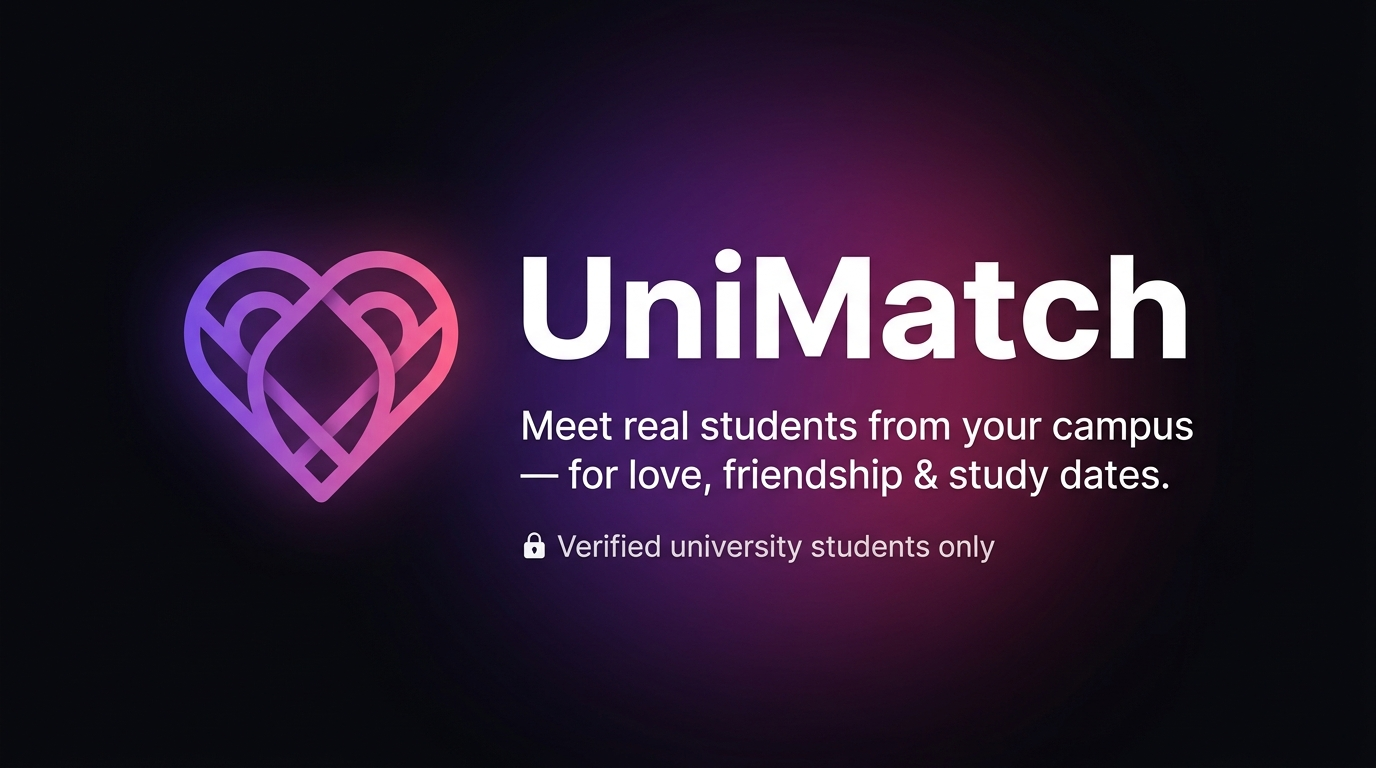
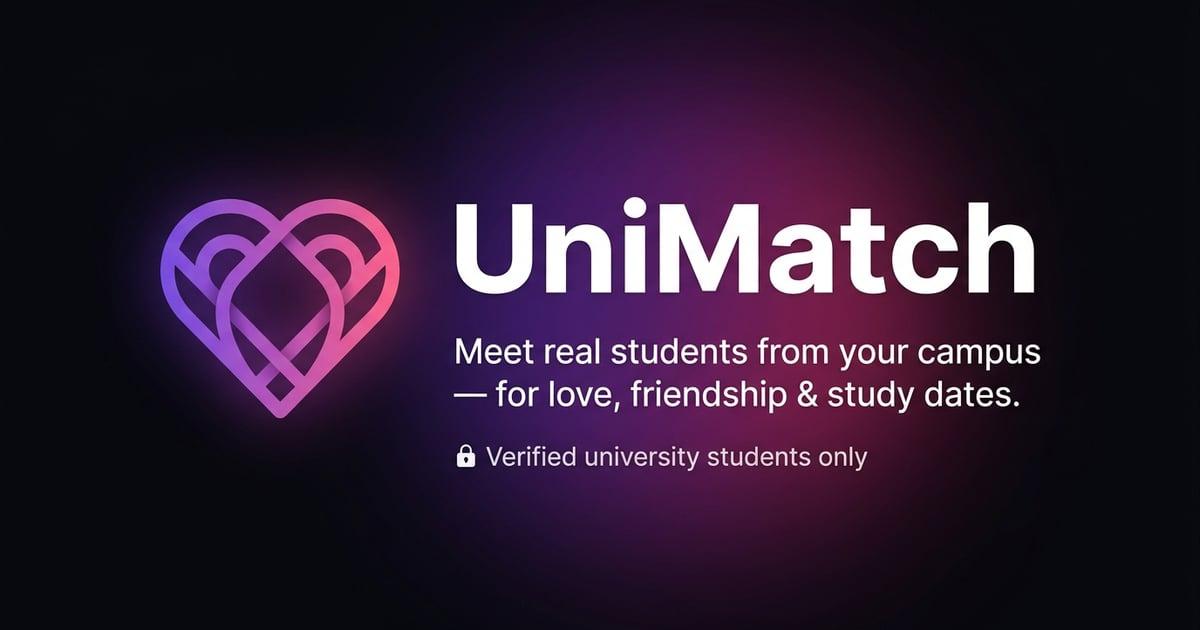
fix: compress og-image under 50KB and add explicit OpenGraph image tags for WhatsApp preview card compatibility

diff --git a/src/app/layout.tsx b/src/app/layout.tsx
@@ -40,9 +40,11 @@ export const metadata: Metadata = {
     siteName: "UniMatch",
     images: [
       {
-        url: "/og-image.jpg",
+        url: "https://uni-match-one.vercel.app/og-image.jpg",
+        secureUrl: "https://uni-match-one.vercel.app/og-image.jpg",
         width: 1200,
         height: 630,
+        type: "image/jpeg",
         alt: "UniMatch — Campus Dating for University Students"
       }
     ],
@@ -53,7 +55,7 @@ export const metadata: Metadata = {
     card: "summary_large_image",
     title: "UniMatch — Campus Dating for University Students",
     description: "Meet real, verified students from your campus — for love, friendship & study dates.",
-    images: ["/og-image.jpg"]
+    images: ["https://uni-match-one.vercel.app/og-image.jpg"]
   },
   appleWebApp: {
     capable: true,
